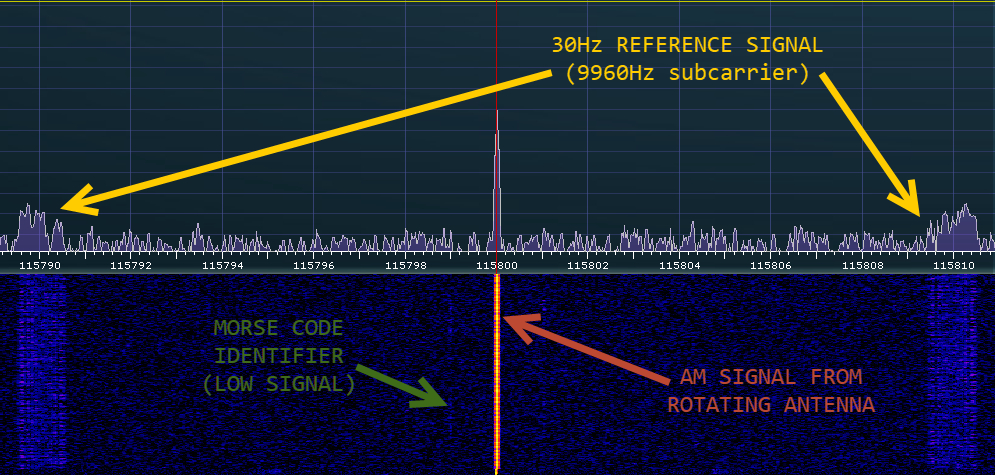
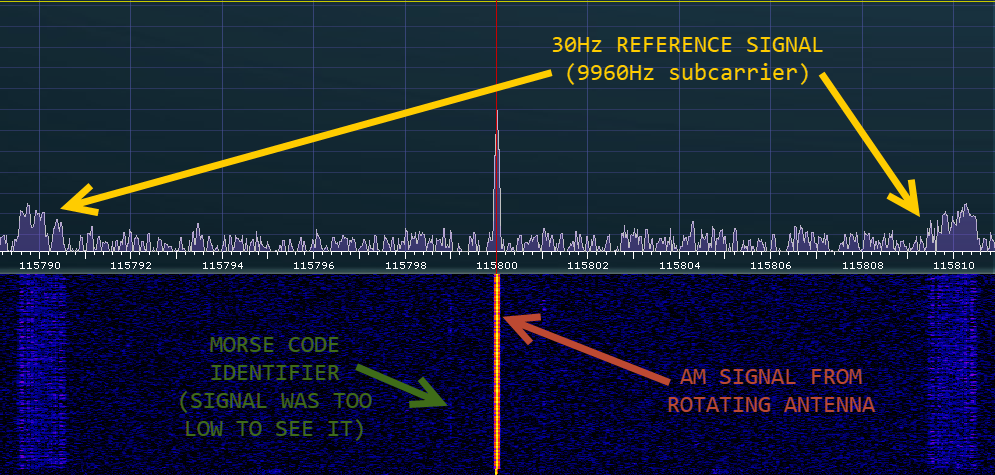
Improving spectrum image and description

Changed region(s): [[0.1558, 0.6484, 0.3739, 0.8547], [0.1869, 0.8842, 0.3739, 0.9432]]

diff --git a/src/python_vor/utils.py b/src/python_vor/utils.py
@@ -179,6 +179,6 @@ def get_audio_stats(samples, rate, logger: Logger):
     if not isinstance(rate, int):
         raise TypeError("Rate must be an integer")
 
-    logger.debug("Input sample rate:", rate)
-    logger.debug("Input samples:", len(samples))
+    logger.debug("Input sample rate: %s", rate)
+    logger.debug("Input samples: %s", len(samples))
     logger.debug("Recording duration: %s seconds", len(samples) / rate)

diff --git a/tests/bearings_validation.py b/tests/bearings_validation.py
@@ -18,6 +18,8 @@ except ImportError:
 
     print("Calling test using local library files")
 
+logger = logging.getLogger("python-vor")
+logger.setLevel(logging.DEBUG)
 
 def main():
     """

diff --git a/README.md b/README.md
@@ -26,7 +26,10 @@ This is exactly what this decoder does: it processes a recorded VOR signal, extr
 
 ## Features
 
-- **Pure Python implementation** using NumPy, SciPy, and Matplotlib
+- **Pure Python implementation** using:
+  - NumPy
+  - SciPy
+  - Matplotlib (only in the Jupyter Notebook)
 - **Signal processing pipeline** including:
   - Lowpass and bandpass FIR filtering
   - Sample rate decimation
@@ -34,6 +37,17 @@ This is exactly what this decoder does: it processes a recorded VOR signal, extr
   - Cross-correlation for phase comparison
 - **Visualization** of signals in both time and frequency domains at each processing step
 - **Calibration support** for phase alignment
+
+## Processing details
+
+The processing steps include:
+
+- Loading audio file and displaying audio statistics (if debug logging is enabled)
+- Filtering and decimating the reference and variable signals
+- Demodulating the FM subcarrier
+- Extracting and filtering the variable signal phase
+- Comparing phases to compute the bearing
+- Returning the calculated bearing in degrees
 
 ## Testing
 
@@ -57,13 +71,15 @@ The following test points were used, with their respective bearings:
 
 ### WAV recording
 
-**Record a VOR signal** as a WAV file (mono or stereo). The recording should capture both the AM reference and FM variable signals.
+Independent of the decoding method, you need to **record a VOR signal** in WAV format. This can be done using any audio recording software or hardware that supports VOR frequencies.
 
-- The receiver should be set to AM mode with a bandwidth of 22KHz
+Record a VOR signal as a WAV file (mono or stereo). The recording should capture both the AM reference and FM variable signals.
+
+- The receiver should be set to AM mode with a bandwidth of 22KHz and centered on the VOR frequency (e.g., 115.800MHz).
 - Recording should be saved with a minimum sample rate of 48KHz (96KHz preferred)
 - There is no need to record more than 1 second of audio, as the decoder processes the signal in chunks.
 
-### Calculating using Jupyter Notebook
+### Option 1: Calculating using Jupyter Notebook
 
 The Jupyter Notebook at [VOR_Decoder.ipynb](https://github.com/iu2frl/PythonVOR/blob/main/VOR_Decoder.ipynb) provides an interactive environment to process the recorded WAV file and extract the bearing.
 
@@ -72,7 +88,7 @@ It displays the decoding steps, including the original signal, filtered signals,
 1. **Set the `FILENAME` variable** in the notebook or script to point to your WAV file.
 1. **Run the notebook or script** to process the signal and extract the bearing.
 
-### Calculating using Python library
+### Option 2: Calculating using Python library
 
 1. Install the library using pip: `pip install python-vor`
 2. Import the `get_bearing` function from the library: `from python_vor import get_bearing`
@@ -86,15 +102,63 @@ bearing = get_bearing(file_path, offset=offset)
 print(f"Bearing for file at {file_path} is: {bearing:.2f}°")
 ```
 
-### Processing details
+<details>
+<summary>Enabling debug logs</summary>
 
-The processing steps include:
+To enable detailed logging, you can set the logging level in your script:
 
-- Loading and displaying audio statistics
-- Filtering and decimating the reference and variable signals
-- Demodulating the FM subcarrier
-- Extracting and filtering the variable signal phase
-- Comparing phases to compute the bearing
+```python
+import logging
+logger = logging.getLogger("python-vor")
+logger.setLevel(logging.DEBUG)
+```
+
+This will print debug messages like:
+
+```plaintext
+DEBUG:python-vor:Loading WAV input from audio\45.409503N10.883784E-275Deg.wav
+DEBUG:python-vor:Input is stereo, keeping only one channel
+DEBUG:python-vor:Input sample rate: 96000
+DEBUG:python-vor:Input samples: 312256
+DEBUG:python-vor:Recording duration: 3.252666666666667 seconds
+DEBUG:python-vor:Recording is longer than 1 second, cutting it to 96000 samples
+DEBUG:python-vor:Input sample rate: 96000
+DEBUG:python-vor:Input samples: 96000
+DEBUG:python-vor:Recording duration: 1.0 seconds
+DEBUG:python-vor:Applying lowpass filter to reference signal
+DEBUG:python-vor:Calculating filter parameters
+DEBUG:python-vor:Lowpass filtering with 699 taps
+DEBUG:python-vor:New signal delay: 349
+DEBUG:python-vor:Decimating reference signal to 6000Hz
+DEBUG:python-vor:Decimating signal from 96000 to 6000 Hz
+DEBUG:python-vor:Applying bandpass filter to FM signal
+DEBUG:python-vor:Calculating filter parameters
+DEBUG:python-vor:Bandpass filtering with 351 taps
+DEBUG:python-vor:New signal delay: 175
+DEBUG:python-vor:Centering FM signal on 0Hz
+DEBUG:python-vor:Applying lowpass filter to FM signal
+DEBUG:python-vor:Calculating filter parameters
+DEBUG:python-vor:Lowpass filtering with 699 taps
+DEBUG:python-vor:New signal delay: 524
+DEBUG:python-vor:Decimating FM signal to 6000Hz
+DEBUG:python-vor:Decimating signal from 96000 to 6000 Hz
+DEBUG:python-vor:Calculating phase of FM signal
+DEBUG:python-vor:Removing DC from variable signal
+DEBUG:python-vor:Calculating filter parameters
+DEBUG:python-vor:Bandpass filtering with 1453 taps
+DEBUG:python-vor:New signal delay: 758
+DEBUG:python-vor:Comparing phases of reference and variable signals
+DEBUG:python-vor:Copying signals to avoid modifying the originals
+DEBUG:python-vor:Removing delays from signals
+DEBUG:python-vor:Correcting variable signal delay with angle offset
+DEBUG:python-vor:Cutting variable signal to match reference signal length
+DEBUG:python-vor:Calculating correlation between signals
+DEBUG:python-vor:Normalizing signals for better visualization
+DEBUG:python-vor:Calculated bearing: 275.4000000000001 degrees
+DEBUG:python-vor:Calculated bearing: 275.4000000000001°
+```
+
+</details>
 
 ## Dependencies
 
